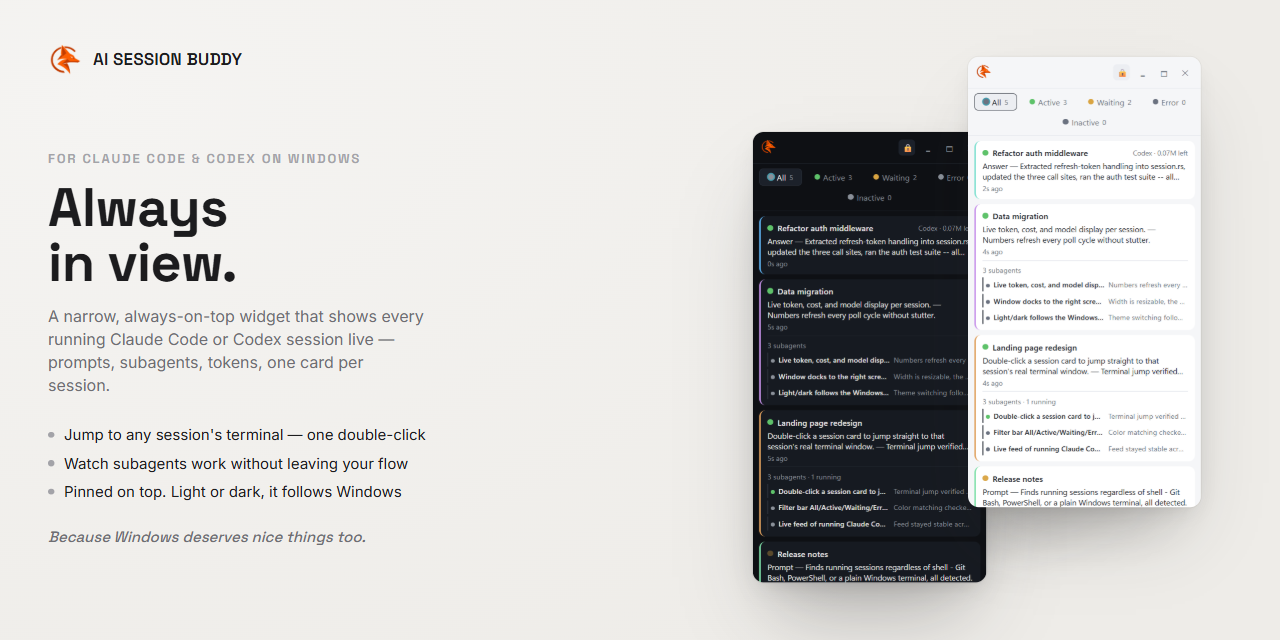
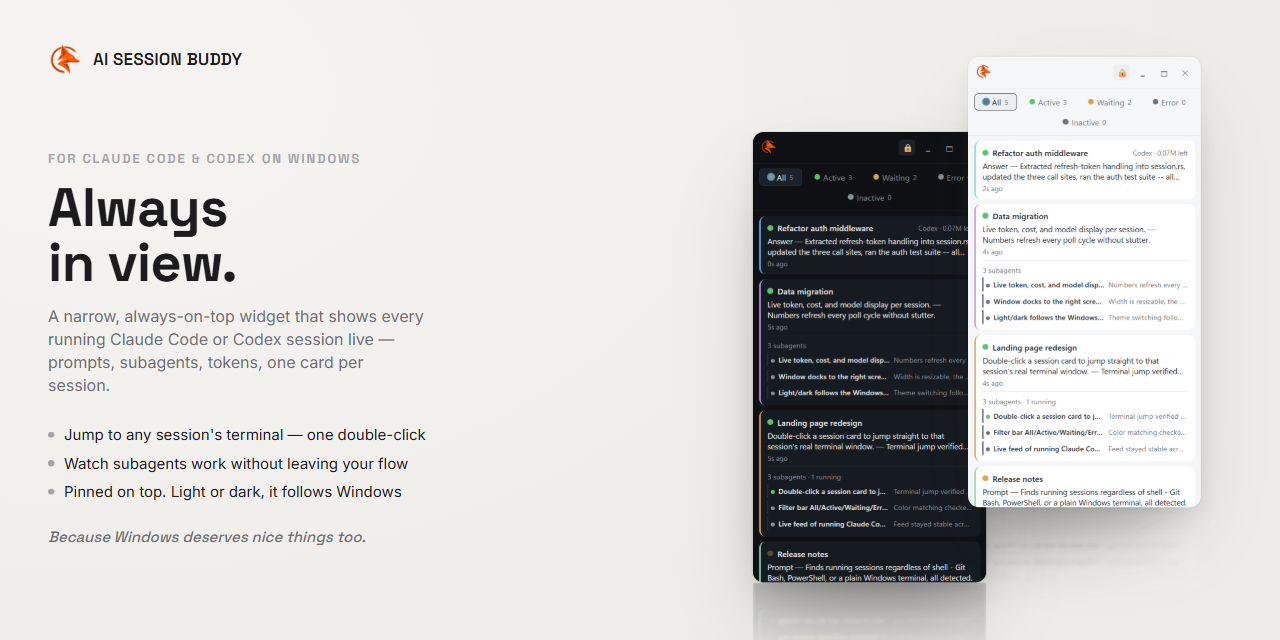
Ollama als Roadmap-Punkt ergänzen, Social-Preview-Grafik mit Glasboden-Spiegelung
README: Codex-Unterstützung ist schon da, Ollama/lokale Agenten allgemein als
nächster Schritt markiert. Social-Preview-Bild bekommt eine echte, weich
ausgeblendete Spiegelung unter den Screenshots plus kräftigeren Schatten, statt
nur der reinen Schatten-Ellipse.

Changed region(s): [[0.5625, 0.9062, 0.7812, 1.0]]

diff --git a/assets/social-preview.html b/assets/social-preview.html
@@ -63,10 +63,26 @@
      the pair, standing in for the surface itself — no visible ground plane, just
      the shadow it casts, which is the actual Apple-keynote trick. */
   .puddle {
-    position: absolute; left: -10px; top: 430px; width: 420px; height: 140px;
-    background: radial-gradient(ellipse at center, rgba(28,28,30,.22) 0%, rgba(28,28,30,0) 70%);
-    filter: blur(18px);
+    position: absolute; left: -10px; top: 425px; width: 430px; height: 155px;
+    background: radial-gradient(ellipse at center, rgba(28,28,30,.36) 0%, rgba(28,28,30,0) 72%);
+    filter: blur(20px);
   }
+
+  /* The actual glass-floor cue: a real mirrored copy of each shot's bottom edge,
+     clipped short and faded out fast, as if reflected in a glossy surface right
+     under it rather than just implied by the puddle shadow above. */
+  .reflection {
+    position: absolute; width: 233px; height: 125px; overflow: hidden;
+    border-radius: 0 0 11px 11px;
+    -webkit-mask-image: linear-gradient(to bottom, rgba(0,0,0,.22), transparent 75%);
+            mask-image: linear-gradient(to bottom, rgba(0,0,0,.22), transparent 75%);
+  }
+  .reflection img {
+    display: block; width: 100%; height: auto; transform: scaleY(-1);
+    filter: blur(1.5px);
+  }
+  .reflection.light { right: 20px; top: 507px; }
+  .reflection.dark { right: 235px; top: 582px; }
 
   .shot {
     position: absolute; width: 233px; border-radius: 11px; overflow: hidden;
@@ -104,6 +120,8 @@
 
     <div class="shots">
       <div class="puddle"></div>
+      <div class="reflection dark"><img src="screenshot-dark.png"></div>
+      <div class="reflection light"><img src="screenshot-light.png"></div>
       <div class="shot dark"><div class="clip"><img src="screenshot-dark.png"></div></div>
       <div class="shot light"><div class="clip"><img src="screenshot-light.png"></div></div>
     </div>

diff --git a/README.md b/README.md
@@ -63,6 +63,11 @@ come out the other end — no live session required.
 - Waiting permission prompts are invisible in the transcript, so a tool card just says
   "running for Ns" without knowing whether it's actually blocked on you.
 
+## Roadmap
+
+- Ollama support, to cover locally-run agents in general instead of just Claude Code and
+  Codex CLI specifically.
+
 ## License
 
 [MIT](LICENSE)
